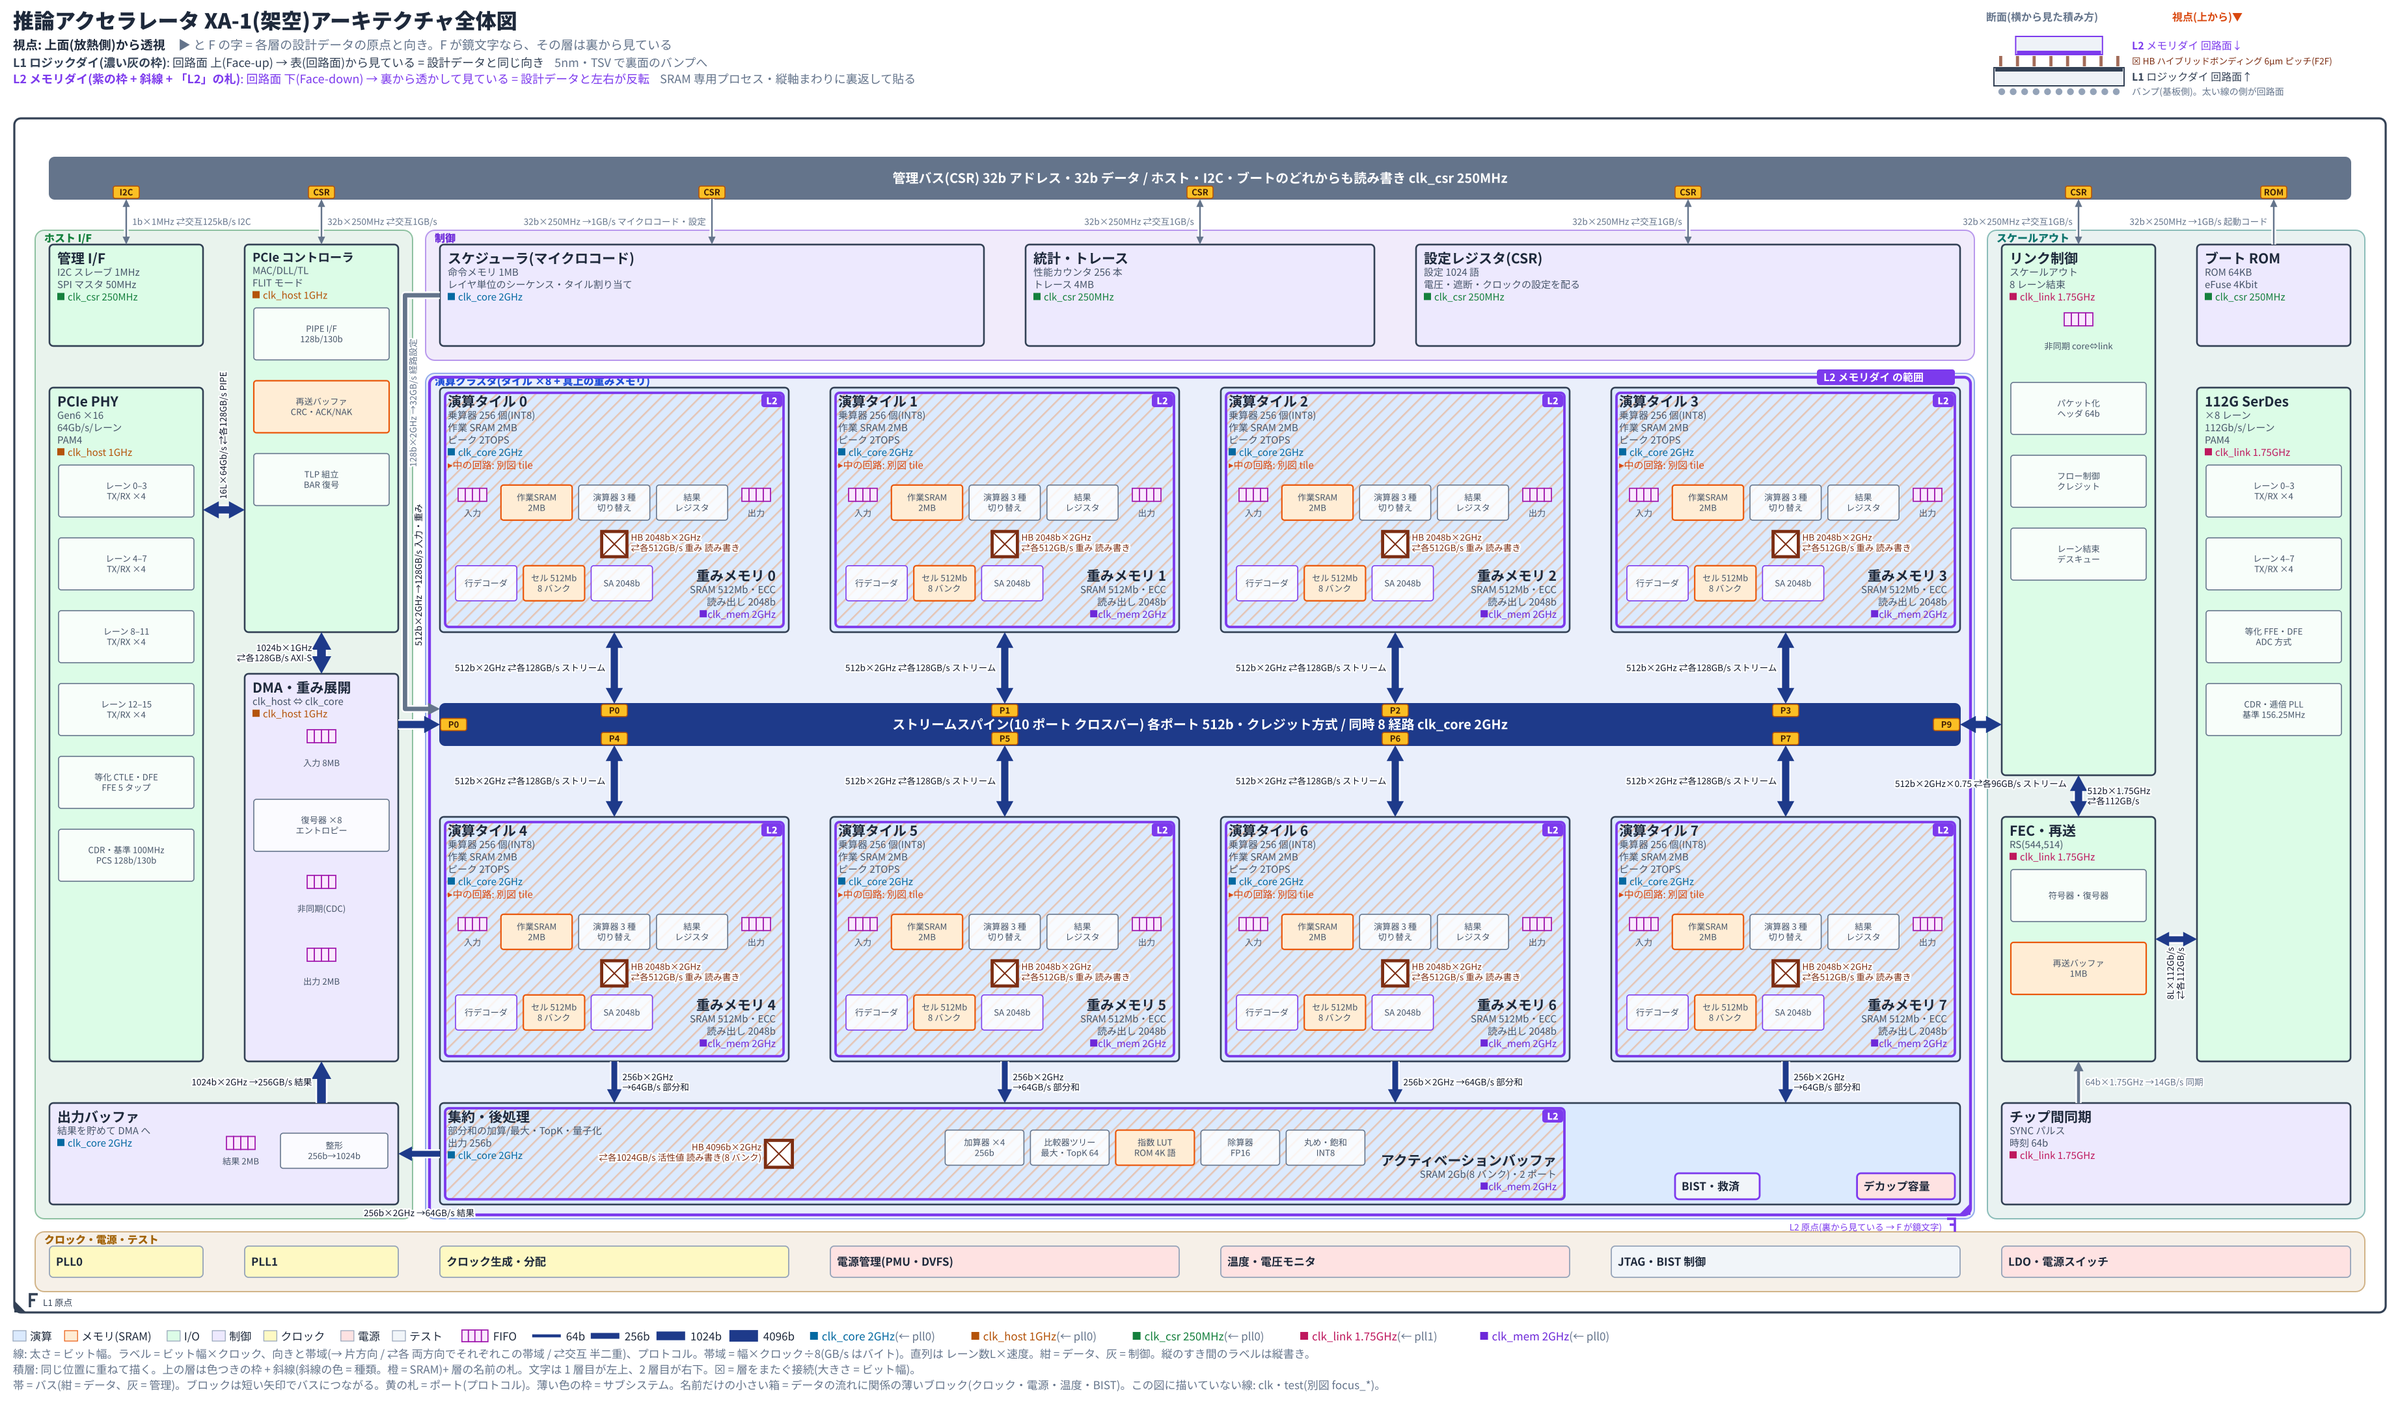
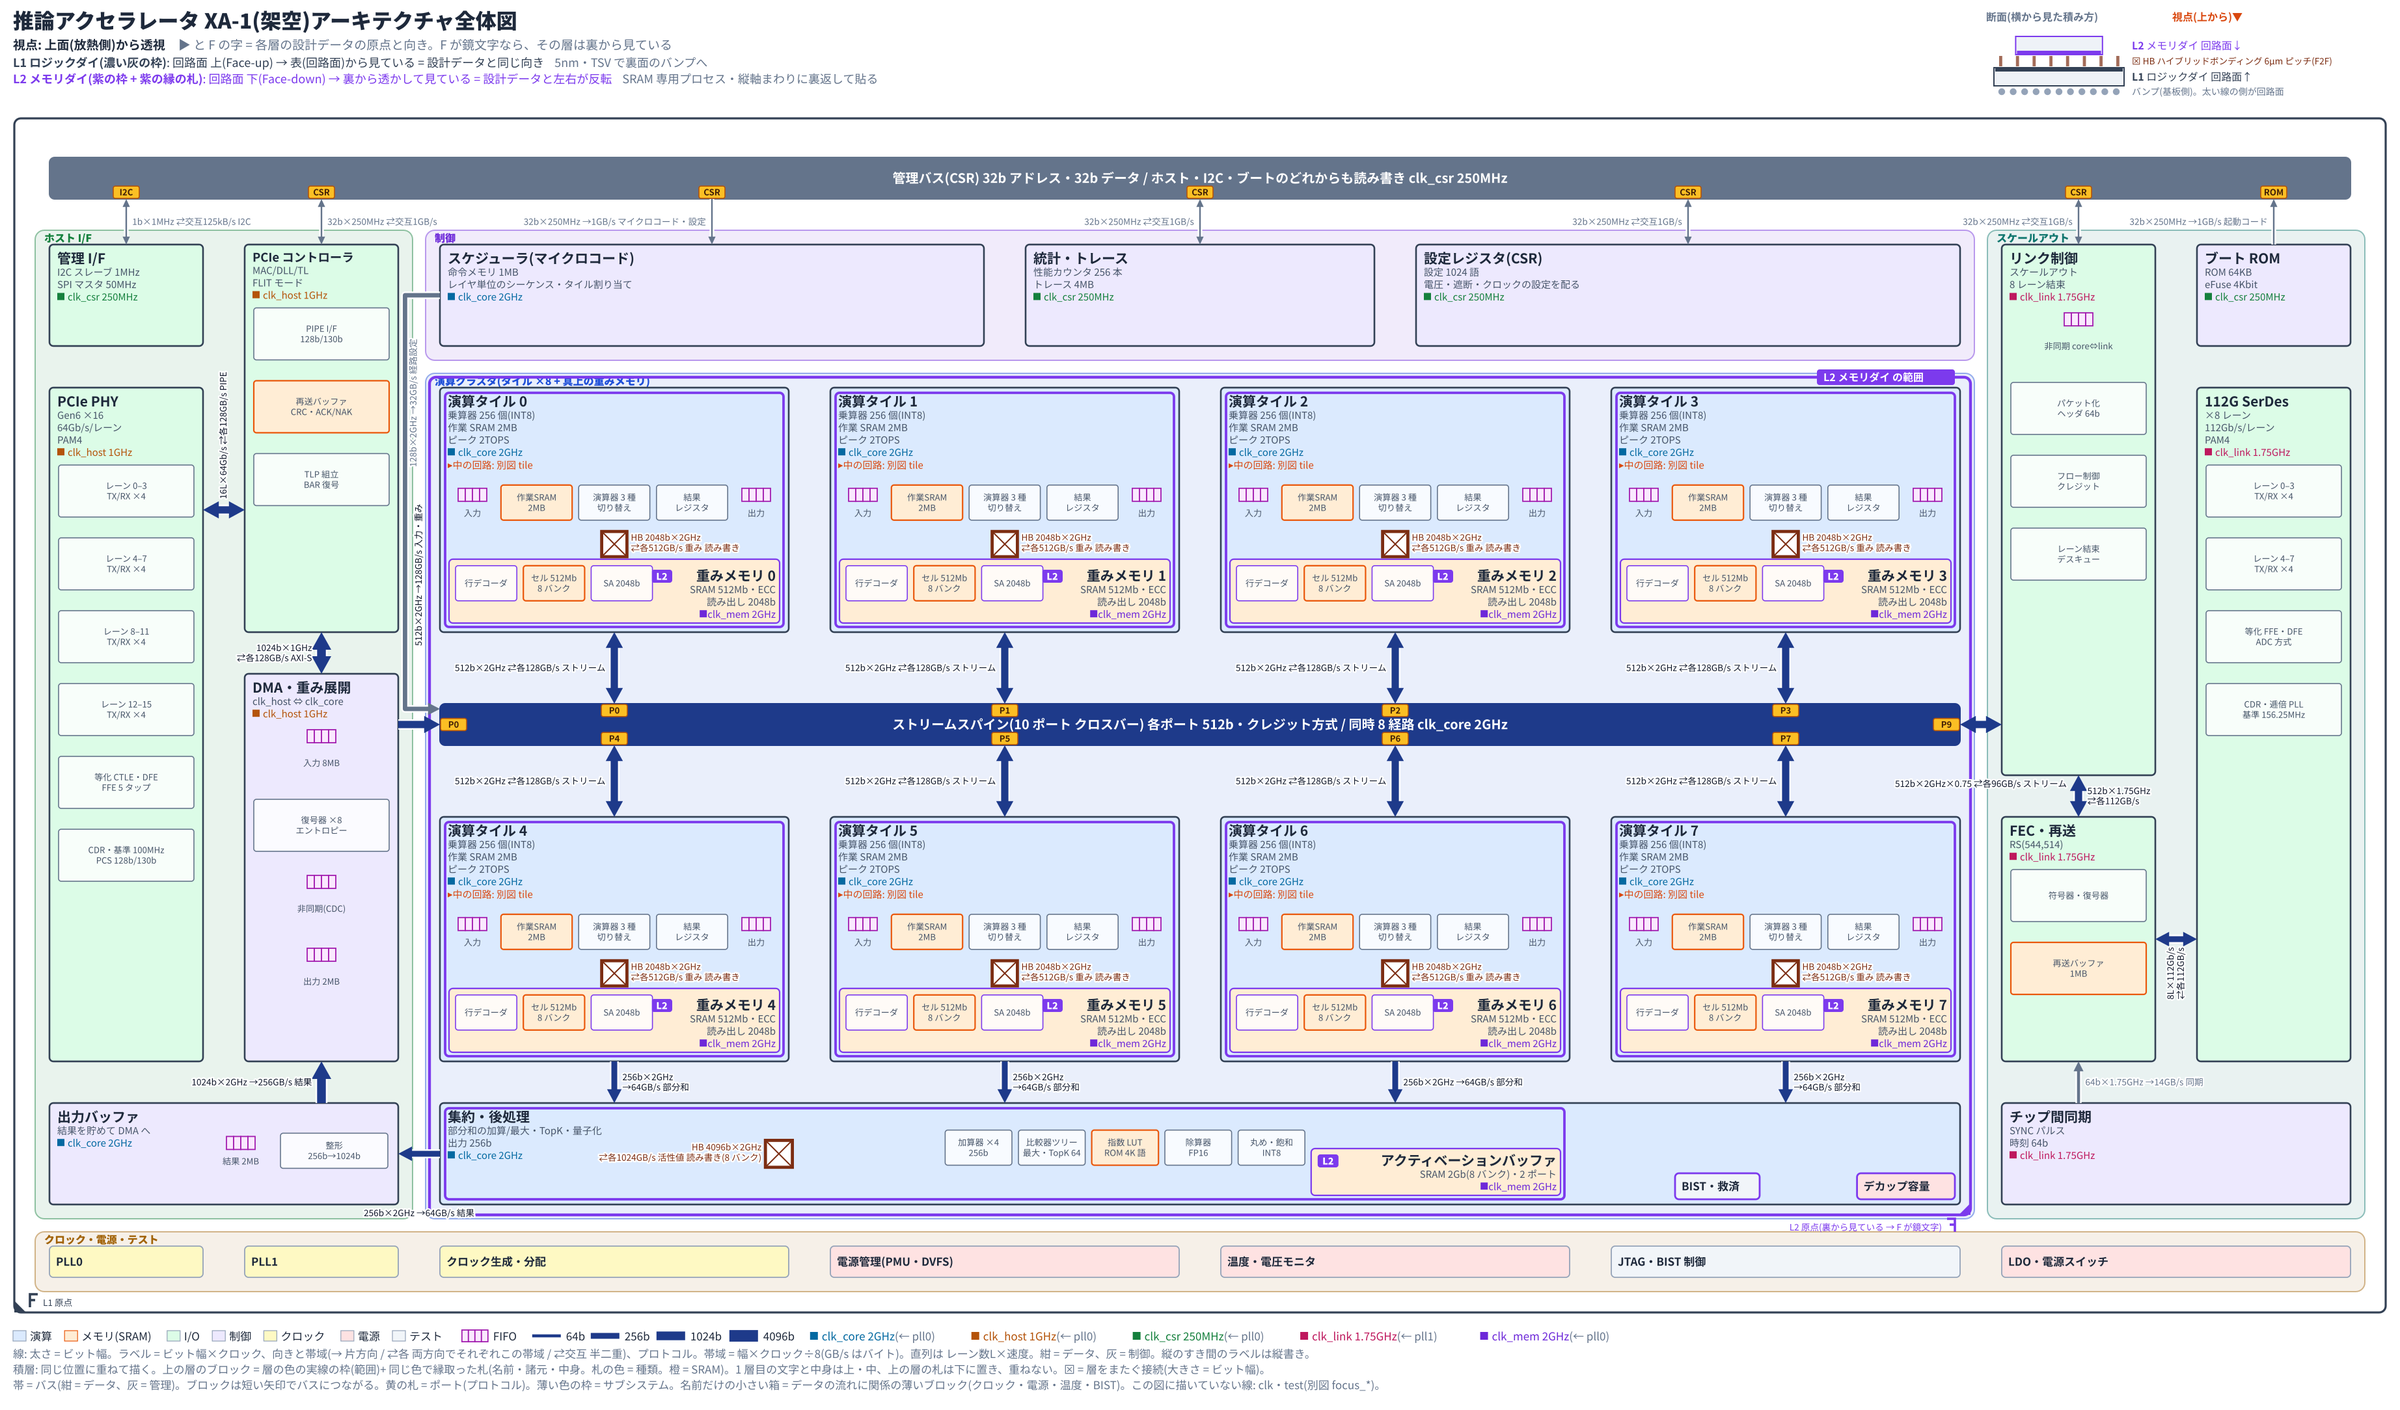
aichip: 上の層の斜線をやめ、実線の枠 + 塗りつぶした札で重ねる(R58)
Claude-Session: https://claude.ai/code/session_01XXd7JvWVmuTTSSCjMKzXau

diff --git a/scripts/aichip.py b/scripts/aichip.py
@@ -5,7 +5,7 @@
   python3 aichip.py lint   model.yaml
 
 1 つのモデル(model.yaml)から、同じ配置のまま次を作る。図を描き分けない(読む人が混乱しないように):
-  arch_overview.svg        全体図(データの流れ重視)。積層は 1 枚に重ねる(上の層 = 色つきの枠 + 斜線 + 「L2」の札、層をまたぐ接続 = ⊠)
+  arch_overview.svg        全体図(データの流れ重視)。積層は 1 枚に重ねる(上の層 = 色つきの実線の枠 + 塗りつぶした札、層をまたぐ接続 = ⊠)
   arch_layer_<層>.svg      層ごとの図(物理配置を見る時)。ほかの層は薄い枠だけ
   arch_layer_<層>_design.svg  その層を回路面から見た向き(設計データの向き)。全体図と左右が反転する層にだけ出す
   arch_scene_<id>.svg      動作説明。全体図と同じ配置で、登場しない所を薄くし、登場する線に番号を振る。下に動作の表
@@ -406,6 +406,14 @@ class Layout:
                 p, ms = along(r["pts"], 0.5), 5 + A.lw(l) * 0.6
                 r["viapt"] = (p[0], p[1], ms)
                 self.boxes.append(((p[0] - ms - 1, p[1] - ms - 1, p[0] + ms + 1, p[1] + ms + 1), ("l", lid), "⊠", True))
+        self.panel = {}                                   # 上の層のブロック: 文字と中身を載せる面(重ねて描く時、下の層の上に塗る)
+        if not A.schem:
+            for b in A.blocks.values():
+                if A.die[b["die"]]["idx"] and not A.small(b):
+                    bs = [bx for bx, ow_, t_, _ in self.boxes if ow_ == ("b", b["id"])]
+                    dx, dy, dw, dh = self.drect[b["id"]]
+                    self.panel[b["id"]] = (max(min(q[0] for q in bs) - 5, dx + 3), max(min(q[1] for q in bs) - 4, dy + 3),
+                                           min(max(q[2] for q in bs) + 5, dx + dw - 3), min(max(q[3] for q in bs) + 4, dy + dh - 3))
         self.place_vias()
         self.place_labels()
 
@@ -626,9 +634,9 @@ class Layout:
                 ix, iy = (x + ins + 4 if right else x + w - ins - 26), y + ins + 4
                 self.icons.append((b["id"], shape, ix, iy))
                 self.boxes.append(((ix, iy, ix + 22, iy + 18), ("b", b["id"]), "□", True))
-            if k:                                         # 上の層: 枠の角に「L2」の札(文字のない側の角)
-                tx = x + w - ins - 17 if (right or A.schem) else x + ins + 1
-                ty = y + ins + 1 if anc[0] == "b" else y + h - ins - 11
+            if k:                                         # 上の層: 名前の横に「L2」の札
+                nb = next(bx for bx, ow_, t_, _ in self.boxes if ow_ == ("b", b["id"]))
+                tx, ty = (nb[0] - 20 if right else nb[2] + 4), nb[1] + 0.5
                 self.tabs.append((b["id"], tx, ty))
                 self.boxes.append(((tx, ty, tx + 16, ty + 10), ("b", b["id"]), "□", True))
             ins_ = b.get("inside")
@@ -1220,8 +1228,9 @@ def body_svg(A, L, mode):
                       f'stroke="{DIMS if dm else ACC if act else bc}" stroke-width="{2.6 if act else 1}"/>')
             continue
         fill = DIMF if dm else FIFO_FILL if shape == "fifo" else KFILL.get(b["kind"], KFILL["misc"])
-        if k and not die_only and not small and not A.schem:      # 重ねて描く時: 下の層の色を消さないよう、斜線だけ
-            fill = "none" if dm else f'url(#ht_{b["kind"] if b["kind"] in KHATCH else "misc"})'
+        over = bool(k and not die_only and not small and not A.schem)
+        if over:                                          # 重ねて描く時: 範囲は層の色の実線の枠だけ(塗らない・斜線を引かない)。文字と中身は下の「札」に載せる
+            fill = "none"
         sw = 2.4 if act else (1.9 if k else 1.3) if not small else (1.4 if k else 0.9)
         sc_ = DIMS if dm else ACC if act else MEMC if (b["kind"] == "mem" and not k) else col if (k or not small) else "#94a3b8"
         if shape == "mux":
@@ -1232,6 +1241,10 @@ def body_svg(A, L, mode):
                       f'stroke="{sc_}" stroke-width="{sw}"/>')
         if shape == "reg":                                # レジスタ: 下の辺にクロックの三角
             b_.append(f'<path d="M{f(x + w - 17)},{f(y + h)} l4.5,-7 l4.5,7" fill="none" stroke="{sc_}" stroke-width="1.1"/>')
+        if over and b["id"] in L.panel:                   # 上の層の札: 種類の色で塗った面(SRAM は橙)+ 層の色の縁
+            p0, p1, p2, p3 = L.panel[b["id"]]
+            b_.append(f'<rect x="{f(p0)}" y="{f(p1)}" width="{f(p2 - p0)}" height="{f(p3 - p1)}" rx="3" fill="{DIMF if dm else KFILL.get(b["kind"], KFILL["misc"])}" '
+                      f'stroke="{DIMS if dm else col}" stroke-width="1.1"/>')
     for bid, nm, tx, ty, anc in L.pinlab:                 # 端子の名前
         if not hidden_die(A.blocks[bid]["die"]):
             b_.append(f'<text x="{f(tx)}" y="{f(ty)}" font-size="6.2" fill="{DIMT if dimb(bid) else "#475569"}" text-anchor="{anc}">{esc(nm)}</text>')
@@ -1468,7 +1481,7 @@ def draw(A, L, mode, title, out, png=False):
             frame = f"{cn}の地・{cn}の線" if d["idx"] else "地の色なし・黒の線"
             st = "この層にある回路"
         else:
-            frame = f"{cn}の枠 + 斜線 + 「{d['id']}」の札" if d["idx"] else f"{cn}の枠"
+            frame = f"{cn}の枠 + {cn}の縁の札" if d["idx"] else f"{cn}の枠"
             st = "表(回路面)から見ている = 設計データと同じ向き" if not mx and not my else "180°回した向き(鏡像ではない)" if mx and my else \
                  f"裏から透かして見ている = 設計データと{'左右' if mx else '上下'}が反転"
         h_.append(f'<text x="10" y="{f(51.5 + 12.5 * k)}" font-size="9" fill="{DIMT if hidden_die(d["id"]) else col}"><tspan font-weight="700">'
@@ -1591,8 +1604,8 @@ def draw(A, L, mode, title, out, png=False):
                  "箱の中の小さい字 = 端子の名前。記号の名前は記号の上(上から線が入る記号は下)。",
                  "層: 上の層にある回路は薄い色の地の上に、その層の色の線で描く。⊠ = 層をまたぐ接続。帯域とクロック周波数は arch の表と全体図に書く。"]
     elif nd > 1:
-        notes.append("積層: 同じ位置に重ねて描く。上の層は色つきの枠 + 斜線(斜線の色 = 種類。橙 = SRAM)+ 層の名前の札。文字は 1 層目が左上、2 層目が右下。"
-                     "⊠ = 層をまたぐ接続(大きさ = ビット幅)。")
+        notes.append("積層: 同じ位置に重ねて描く。上の層のブロック = 層の色の実線の枠(範囲)+ 同じ色で縁取った札(名前・諸元・中身。札の色 = 種類。橙 = SRAM)。"
+                     "1 層目の文字と中身は上・中、上の層の札は下に置き、重ねない。⊠ = 層をまたぐ接続(大きさ = ビット幅)。")
     t3 = ""
     if any(A.isbus(b) for b in A.blocks.values()):
         t3 += "帯 = バス(紺 = データ、灰 = 管理)。ブロックは短い矢印でバスにつながる。黄の札 = ポート(プロトコル)。薄い色の枠 = サブシステム。"

diff --git a/diagrams/ai-chip-architecture/GUIDE.md b/diagrams/ai-chip-architecture/GUIDE.md
@@ -10,7 +10,7 @@ SoC(CPU + バス + 周辺)ではなく、**演算タイルの並び + メモリ 
 
 | 図 | ファイル | 使う時 |
 |---|---|---|
-| 全体図 | `arch_overview.svg` | 全体把握。データの流れが主役。積層は 1 枚に重ねる(上の層 = 色つきの枠 + 斜線 + 「L2」の札) |
+| 全体図 | `arch_overview.svg` | 全体把握。データの流れが主役。積層は 1 枚に重ねる(上の層 = 色つきの実線の枠 + 塗りつぶした札) |
 | 層ごとの図 | `arch_layer_<層>.svg` | 物理配置を見る時。全体図と同じ向き・同じ位置で、ほかの層は薄い枠だけ |
 | 層ごとの図(設計データの向き) | `arch_layer_<層>_design.svg` | 全体図では裏から見えている層を、回路面から見た向きで。レイアウト担当と話す時 |
 | 動作説明 | `arch_scene_<id>.svg` | 全体図と同じ配置で、登場しない所を薄くし、登場する線に番号。下に動作の表 |
@@ -90,9 +90,11 @@ python3 scripts/aichip.py lint   examples/aichip/infer_accel.yaml
 ### R58 積層と向き
 - **座標は「上面(放熱側)から見た向き」で全層を書く。** 左上が [0, 0]。
 - **全体把握 = 1 枚に重ねる。層は色で分ける(破線・点線の枠は使わない。どこまでが枠か分かりにくい)。**
-  - 上の層のブロック = その層の色(2 層目は紫)の**実線の閉じた枠** + **斜線**(斜線の色 = 種類。**SRAM は橙**)+ 角に層の名前の札(「L2」)。
+  - 上の層のブロック = 範囲を示す、その層の色(2 層目は紫)の**実線の閉じた枠**(中は塗らない)+ 名前・諸元・中身を載せる**塗りつぶした札**
+    (同じ色の縁。札の色 = 種類。**SRAM は橙**。名前の横に「L2」)。
+  - **斜線・網かけ・破線は使わない。** 細い線が下の層の文字や箱に重なり、読めなくなる。
   - 上の層の範囲 = 同じ色の実線の外形 + 「L2 メモリダイ の範囲」の札。
-  - 文字は 1 層目が左上、2 層目が右下(同じ位置のブロックの文字がぶつからない)。上の層は斜線だけで塗らない(下の層の色を消さない)。
+  - 1 層目の文字と中身はブロックの上・中、上の層の札は下(右下)に置き、互いに重ねない。
 - **SRAM の場所は橙**: メモリのブロック(`kind: mem`)、ブロックの中の SRAM(`inside` の `mem:`)、回路の図の SRAM(`shape: ram`)。
 - **層をまたぐ接続 = ⊠。** 2 つのブロックが上下に重なっている位置に置き、横に `HB 幅×クロック` と `向きと帯域・用途` を書く。
   HB(ハイブリッドボンディング)・µバンプ・TSV は真上・真下でしかつながらないので、重なっていなければ `[接続]`。

diff --git a/README.md b/README.md
@@ -160,7 +160,7 @@ SoC ではない AI 向けチップ(演算タイル + メモリ + 高速 I/O)の
 すき間を作らず敷き詰め、ブロックにクロック周波数・諸元、線に ビット幅×クロック・向き・帯域 を書く(字は小さい。拡大して読む)。
 
 **全体図**(論文・ホワイトペーパーのブロック図にならう: バス = 帯、ブロックは短い太い矢印でバスにつなぐ、黄の札 = ポート、題つきの枠 = サブシステム。
-線の太さ = ビット幅。積層は 1 枚に重ね、上の層は紫の枠 + 斜線 + 「L2」の札、SRAM は橙、⊠ = 層をまたぐ接続。
+線の太さ = ビット幅。積層は 1 枚に重ね、上の層は紫の実線の枠 + 塗りつぶした札(斜線は使わない)、SRAM は橙、⊠ = 層をまたぐ接続。
 クロック・電源・温度・BIST は名前だけの小さい箱。上の帯に視点・各層の向き・断面)
 
 <img src="docs/gallery/aichip_overview.png" alt="AI チップの全体図" width="820">
